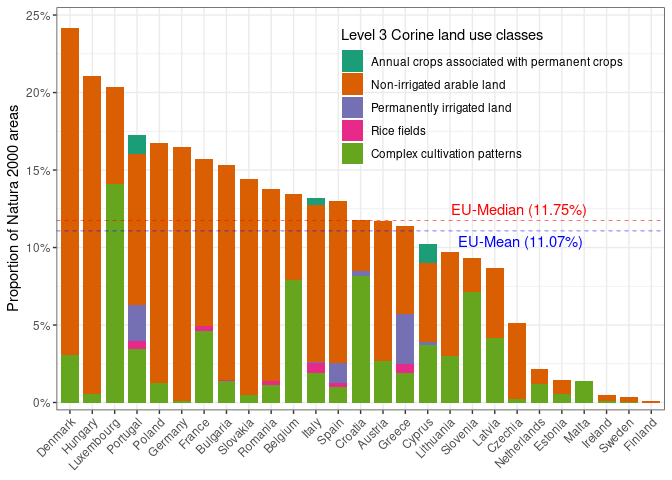
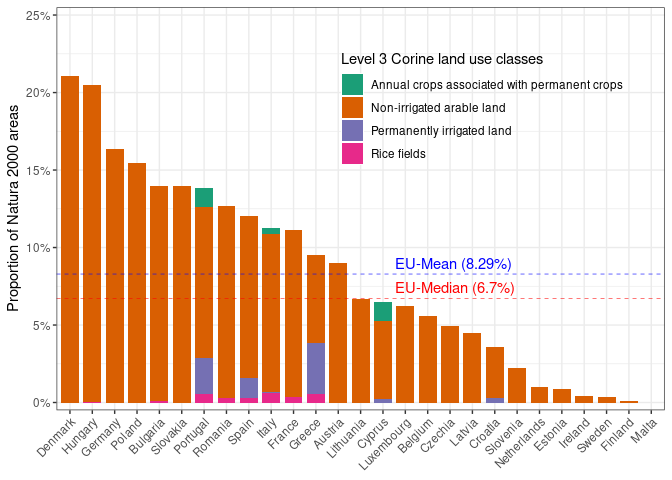
More organized code

diff --git a/README.md b/README.md
@@ -6,15 +6,16 @@
 <!-- badges: start -->
 <!-- badges: end -->
 
-The goal of AgriPatterns_Natura2000 is to document the analyses made for
-the manuscript entitled “Ecological principles for designating areas for
-afforestation that co-benefit biodiversity”, Specifically, this repo
-explains how the proportions of agriculture in Natura 2000 nature
-protection areas in different countries of the EU.
+The goal of AgriPatterns_Natura2000 is to document the analyses for the
+manuscript entitled “Ecological principles for designating areas for
+afforestation that co-benefit biodiversity”. Specifically, this
+repository explains how the proportions of different types of
+agriculture in Natura 2000 nature protection areas are calculated for
+various countries in the European Union.
 
-## Loading necessary package
+## Required Packages
 
-First we need to load the necessary packages
+First, load the necessary packages:
 
 ``` r
 library(tidyverse)
@@ -23,46 +24,87 @@ library(readxl)
 library(forcats)
 library(stringr)
 library(terra)
-library(readxl)
 library(RColorBrewer)
 ```
 
-## Data origin and procedure
+## Data Source
 
-Corine level 3 was retrieved from [European Environmental
+The data used in this analysis is derived from Corine Level 3 land use
+data, retrieved from the [European Environmental
 Agency](https://www.eea.europa.eu/en/analysis/maps-and-charts/natura-2000-data-viewer-dashboards#:~:text=The%20interactive%20map%20in%20the%20fifth%20page%20shows%20the%20percentage).
+.
 
-# loading data and calculating the percentage proportion of each type of agriculture in each country
+The dataset includes detailed information about land use types within
+Natura 2000 areas across EU countries.
+
+## Step 1: Loading the Data
+
+The first step is to load the raw Corine Level 3 data:
 
 ``` r
 #Loading data
 level3 <- read_excel("level3.xlsx")
+```
 
+## Step 2: Calculating Total Natura 2000 Area per Country
+
+Here, the total area of Natura 2000 regions is calculated for each
+country by summing all numerical columns (land-use types) to compute the
+total Natura 2000 area for each country.
+
+``` r
 natura2000_area <- level3 |>  
   mutate(natura2000_area = rowSums(across(where(is.numeric)), na.rm = T)) |>  
   distinct(country, .keep_all = T) |> 
   select(country, natura2000_area)
+```
 
+## Step 3: Preparing Data for Proportional Calculations
 
+Next, we process the data to extract and transform agricultural
+categories within Natura 2000 areas, here the dataset is converted to a
+long format for easier handling of individual categories.
 
+``` r
 plot_dat_2 <- level3 |>  
   distinct(country, .keep_all = T) |>  
-  #mutate("nat_area" = rowSums(across(where(is.numeric)), na.rm = T)) %>% 
   select(c(1,13:23))  |>  
   pivot_longer(-1, values_to = "area", names_to = "category") |> 
-  filter(category != "Agriculture mosaics with significant natural vegetation") %>% 
-  mutate(type_short = str_extract(category, "[A-Z].+")) %>% 
-  select(1,3,4) %>% 
-  mutate(type_short_level_3 = ifelse(type_short %in% c("Permanently irrigated land", "Annual crops associated with permanent crops", "Non-irrigated arable land", "Rice fields", "Complex cultivation patterns"), "Landbrug i omdrift", type_short)) %>% 
-  mutate(type_short_level_3 = ifelse(type_short %in% c("Vineyards", "Fruit trees and berry plantations", "Olive groves", "Agro-forestry areas"), "Agro-forestry og fødevaretræer", type_short_level_3)) %>% 
-  mutate(type_short_level_3 = ifelse(type_short == "Pastures", "Permanent græs", type_short_level_3)) %>% 
-  filter(country != "Grand Total") %>% 
-  left_join(., natura2000_area, by = "country") %>% 
-  mutate(proportion_level_3 = area / natura2000_area) %>% 
-  group_by(country, type_short_level_3) %>% 
+  mutate(type_short = str_extract(category, "[A-Z].+")) |>  
+  select(country, category, area, type_short)
+```
+
+## Step 4: Grouping and Recategorizing Agricultural Types
+
+Agricultural land-use categories are grouped into broader
+classifications, here we simplify detailed land-use categories into
+meaningful groups for analysis.
+
+``` r
+plot_dat_2 <- plot_dat_2 |>  
+  mutate(
+    type_short_level_3 = case_when(
+      type_short %in% c("Permanently irrigated land", "Annual crops associated with permanent crops", "Non-irrigated arable land", "Rice fields", "Complex cultivation patterns") ~ "Agriculture in rotation",
+      type_short %in% c("Vineyards", "Fruit trees and berry plantations", "Olive groves", "Agro-forestry areas") ~ "Agroforestry and food trees",
+      type_short == "Pastures" ~ "Permanent grassland",
+      TRUE ~ type_short # Default to the existing value
+  ))|>  
+  filter(country != "Grand Total")
+```
+
+## Step 5: Calculating Proportions
+
+Finally, the proportion of each agricultural type within Natura 2000
+areas is calculated for each country
+
+``` r
+plot_dat_2 <- plot_dat_2 |> 
+  left_join(natura2000_area, by = "country") |>  
+  mutate(proportion_level_3 = area / natura2000_area) |>  
   reframe(proportion_level_3 = proportion_level_3,
           proportion_sum = sum(proportion_level_3, na.rm = T),
-          type_short = type_short)
+          type_short = type_short,
+          .by = c(country, type_short_level_3))
 ```
 
 # Plotting proportion of agriculture in Natura2000 areas including complex cultivation patterns
@@ -79,21 +121,17 @@ order_levels <- c(
   "Complex cultivation patterns"
 )
 
-median_val <- plot_dat_2 %>% 
-  filter(type_short_level_3 == "Landbrug i omdrift") %>% 
-  pull(proportion_sum) %>% 
-  median() %>% 
-  round(., digits = 4)
+summary_vals <- plot_dat_2 |> 
+  filter(type_short_level_3 == "Agriculture in rotation") |>  
+  summarize(
+    median_val = round(median(proportion_sum, na.rm = TRUE), digits = 4),
+    mean_val = round(mean(proportion_sum, na.rm = TRUE), digits = 4)
+  )
 
-mean_val <- plot_dat_2 %>% 
-  filter(type_short_level_3 == "Landbrug i omdrift") %>% 
-  pull(proportion_sum) %>% 
-  mean() %>% 
-  round(., digits = 4)
 
-plot_dat_2 %>% 
-  filter(type_short_level_3 == "Landbrug i omdrift") %>%
-  mutate(type_short = factor(type_short, levels = order_levels)) %>%  # Relevel the 'type_short' variable
+plot_dat_2 |> 
+  filter(type_short_level_3 == "Agriculture in rotation") |> 
+  mutate(type_short = factor(type_short, levels = order_levels)) |>   # Relevel the 'type_short' variable
   ggplot(aes(x = fct_reorder(country, proportion_sum, .desc = TRUE), 
              y = proportion_level_3, 
              fill = type_short)) +
@@ -106,18 +144,18 @@ plot_dat_2 %>%
         legend.background = element_blank(),
         legend.position = c(0.7, 0.78)) +
   scale_y_continuous(expand = c(0.02, 0), labels = scales::percent, limits = c(0, 0.25)) +
-  geom_hline(yintercept = median_val, linetype = "dashed", color = "red", linewidth = 0.2) +  # Add stippled line
-  geom_hline(yintercept = mean_val, linetype = "dashed", color = "blue", linewidth = 0.2) +  # Add stippled line
-  annotate("text", x = 15, y = median_val, 
-           label = paste0("EU-Median ", "(", median_val * 100, "%)"), 
+  geom_hline(yintercept = summary_vals$median_val, linetype = "dashed", color = "red", linewidth = 0.2) +  # Add stippled line
+  geom_hline(yintercept = summary_vals$mean_val, linetype = "dashed", color = "blue", linewidth = 0.2) +  # Add stippled line
+  annotate("text", x = 15, y = summary_vals$median_val, 
+           label = paste0("EU-Median ", "(", summary_vals$median_val * 100, "%)"), 
            color = "red", hjust = -0.5, vjust = -0.5) +
-  annotate("text", x = 15, y = mean_val, 
-           label = paste0("EU-Mean ", "(", mean_val * 100, "%)"), 
+  annotate("text", x = 15, y = summary_vals$mean_val, 
+           label = paste0("EU-Mean ", "(", summary_vals$mean_val * 100, "%)"), 
            color = "blue", hjust = -0.6, vjust = 1.5) +
   ylab("Proportion of Natura 2000 areas")
 ```
 
-![](README_files/figure-gfm/unnamed-chunk-3-1.png)<!-- -->
+![](README_files/figure-gfm/unnamed-chunk-2-1.png)<!-- -->
 
 # plotting proportion agriculture excluding complex cultivation patterns
 
@@ -179,4 +217,4 @@ plot_dat_2_min %>%
   ylab("Proportion of Natura 2000 areas")
 ```
 
-![](README_files/figure-gfm/unnamed-chunk-4-1.png)<!-- -->
+![](README_files/figure-gfm/unnamed-chunk-3-1.png)<!-- -->
